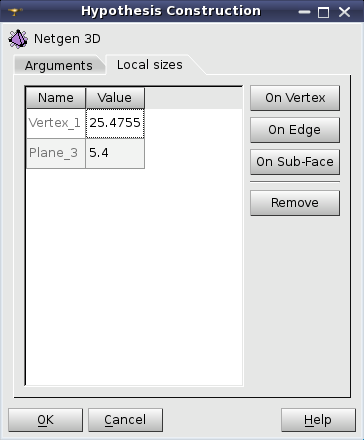
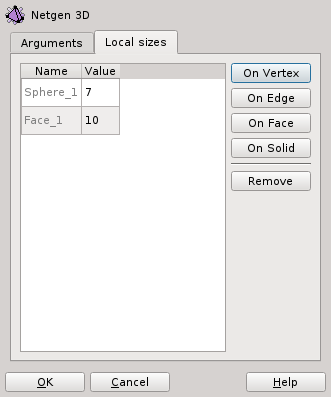
Allow local size on any face and solid

Changed region(s): [[0.0, 0.0, 1.0, 0.9975], [0.997, 0.9975, 1.0, 1.0]]

diff --git a/src/GUI/NETGENPlugin_msg_fr.ts b/src/GUI/NETGENPlugin_msg_fr.ts
@@ -137,7 +137,11 @@
     </message>
     <message>
         <source>NETGEN_LSZ_FACE</source>
-        <translation>Sur une sous-face</translation>
+        <translation>Sur une face</translation>
+    </message>
+    <message>
+        <source>NETGEN_LSZ_SOLID</source>
+        <translation>Sur une solide</translation>
     </message>
     <message>
         <source>NETGEN_LSZ_REMOVE</source>

diff --git a/src/GUI/NETGENPlugin_msg_en.ts b/src/GUI/NETGENPlugin_msg_en.ts
@@ -137,7 +137,11 @@
     </message>
     <message>
         <source>NETGEN_LSZ_FACE</source>
-        <translation>On Sub-Face</translation>
+        <translation>On Face</translation>
+    </message>
+    <message>
+        <source>NETGEN_LSZ_SOLID</source>
+        <translation>On Solid</translation>
     </message>
     <message>
         <source>NETGEN_LSZ_REMOVE</source>

diff --git a/src/GUI/NETGENPluginGUI_HypothesisCreator.h b/src/GUI/NETGENPluginGUI_HypothesisCreator.h
@@ -80,6 +80,7 @@ protected slots:
   virtual void     onAddLocalSizeOnVertex();
   virtual void     onAddLocalSizeOnEdge();
   virtual void     onAddLocalSizeOnFace();
+  virtual void     onAddLocalSizeOnSolid();
   virtual void     onRemoveLocalSizeOnShape();
   virtual void     onSetLocalSize(int,int);
 
